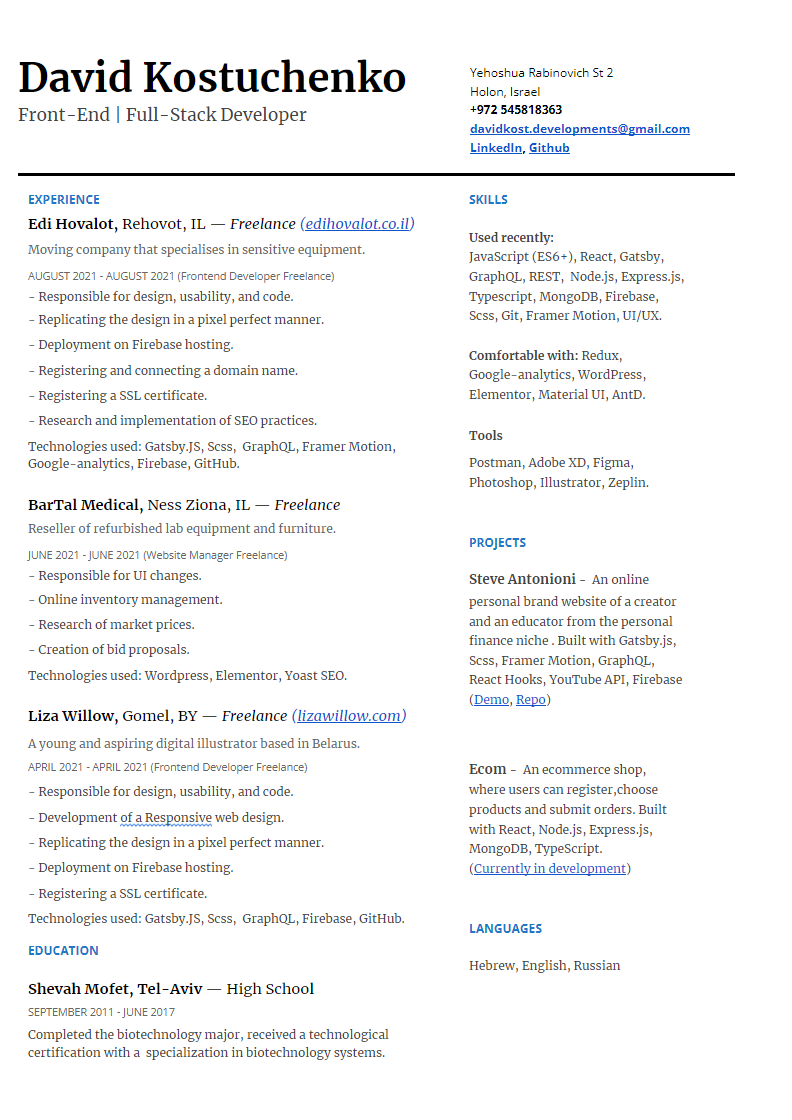
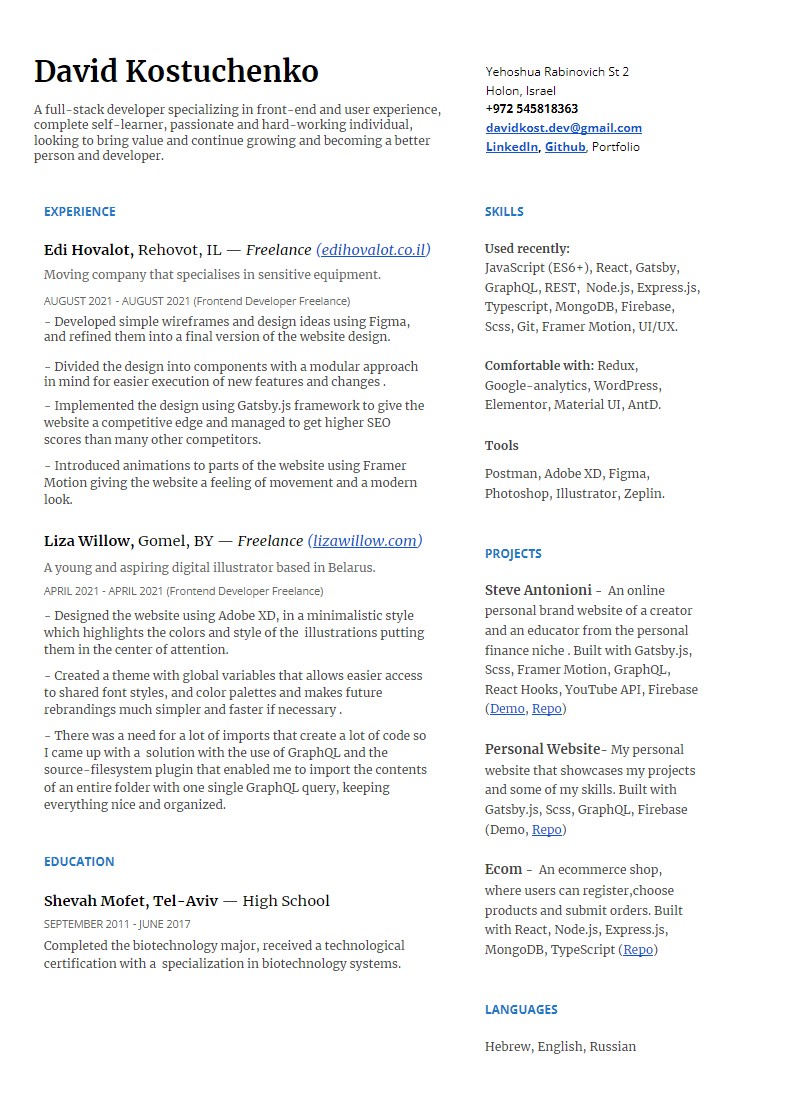
[Update] New Email + resume

Changed region(s): [[0.0305, 0.0305, 0.9137, 0.9444], [0.5787, 0.6703, 0.8832, 0.9444]]

diff --git a/src/components/Footer/index.jsx b/src/components/Footer/index.jsx
@@ -10,21 +10,24 @@ export default function Footer() {
   return (
     <div className="footer">
       <div className="footer__icons">
-        <a href="">
+        <a href="mailto:davidkost.dev@gmail.com" target="_blank">
           <Gmail
             className="footer__icons__gmail"
             style={{ width: "34px", height: "auto" }}
           />
         </a>
 
-        <a href="">
+        <a
+          href="https://www.linkedin.com/in/david-edvard-kostuchenko-aba120200/"
+          target="_blank"
+        >
           <Linkedin
             className="footer__icons__linkedin"
             style={{ width: "31px", height: "auto" }}
           />
         </a>
 
-        <a href="">
+        <a href="https://github.com/DavidKost27" target="_blank">
           <Github
             className="footer__icons__github"
             style={{ width: "32px", height: "auto" }}

diff --git a/src/components/Resume/index.jsx b/src/components/Resume/index.jsx
@@ -7,12 +7,16 @@ export default function Resume(props) {
   return (
     <div className="resume-section" ref={resumeSectionRef} id="resume">
       <h2>Resume</h2>
-      <div className="resume">
+      <a
+        className="resume"
+        href="https://docs.google.com/document/d/1WtvXA5dex7o0x78lK4jv7I6GAc1NXCYLQcM-H-OxiRo/edit?usp=sharing"
+        target="_blank"
+      >
         <StaticImage
           src="../../assets/images/resume.PNG"
           alt="Edi Hovalot moving company."
         />
-      </div>
+      </a>
     </div>
   );
 }

diff --git a/src/components/Contact/index.jsx b/src/components/Contact/index.jsx
@@ -13,12 +13,8 @@ export default function Contact(props) {
       </p>
       <div className="email">
         Email:{" "}
-        <a
-          href="mailto:davidkost1999@gmail.com"
-          target="_blank"
-          onclick="window.open('your WS URL');"
-        >
-          davidkost1999@gmail.com
+        <a href="mailto:davidkost.dev@gmail.com" target="_blank">
+          davidkost.dev@gmail.com
         </a>
       </div>
     </div>

diff --git a/src/components/Resume/styles.scss b/src/components/Resume/styles.scss
@@ -1,11 +1,15 @@
 .resume-section {
   font-family: "IBM Plex Sans Condensed", sans-serif;
   width: 100%;
-  height: 800px;
   display: flex;
   flex-direction: column;
   align-items: center;
   justify-content: center;
+  > h2 {
+    margin-top: 60px;
+    margin-bottom: 30px;
+    font-size: 40px;
+  }
   .resume {
     max-width: 300px;
     height: auto;

diff --git a/src/components/NavBar/styles.scss b/src/components/NavBar/styles.scss
@@ -57,5 +57,5 @@
   scroll-margin-top: 80px;
 }
 #resume {
-  scroll-margin-top: -20px;
+  scroll-margin-top: 25px;
 }

diff --git a/src/components/InfoCard/styles.scss b/src/components/InfoCard/styles.scss
@@ -62,7 +62,6 @@
   }
   .skills {
     h3 {
-      margin-top: 5px;
     }
     > div {
       margin-top: 5px;
